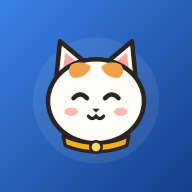
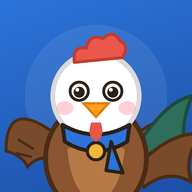
PS1.3.36.1

diff --git a/routine/scripts/core.js b/routine/scripts/core.js
@@ -93,7 +93,7 @@ function treeLettersSVG37(stage,stems,sx,order,interactive){
    KAIZEN MỖI NGÀY · TQ02
    Một file HTML, dữ liệu lưu trong trình duyệt của từng máy.
    ========================================================= */
-var APP_VER = 'M.Claude.3.3.41';
+var APP_VER = 'M.Claude.3.4.0';
 var APP_NAME = 'Shin routine';
 /* PS1.3.25: Shin Routine nằm trong Proskills (thư mục routine/), lưu theo quy ước ps.* để đi cùng bản sao lưu chung */
 var KEY = 'ps.mod.routine', KEY_DEMO = 'ps.demo.routine', KEY_MODE = 'ps.demo.routine.mode';
@@ -671,82 +671,13 @@ var GCOL={1:'#2A74DB',2:'#22A05E',3:'#0F9F98',4:'#E0567F',5:'#7B5BD0',6:'#D9731A
 function hico(id,size){ var g=HMAP[id].g; return '<span class="hi g'+g+(size?' hi--'+size:'')+'">'+glyph(id,GCOL[g])+'</span>'; }
 function gico(g,size){ return '<span class="hi g'+g+(size?' hi--'+size:'')+'">'+glyph('g'+g,GCOL[g])+'</span>'; }
 function uico(n,g){ return '<span class="hi g'+(g||1)+'" style="color:#fff">'+ic(n)+'</span>'; }
-/* ---- Shin: mèo huấn luyện viên · hi · cheer · think · wow · worry · sleep ---- */
+/* ---- Shin: gà lớn dần cùng học viên (PS1.3.36 · M.Claude.3.4.0) ----
+   Hình vẽ ở ../core/shin.js (PSShin, dùng chung với trang chủ Proskills). Giai đoạn theo số ngày đã ghi nhận
+   (Trứng → Gà con 3 ngày → Gà choai 14 ngày → Gà lớn 30 ngày), trang phục chọn ở Sổ tay › Cài đặt › Tủ đồ của Shin.
+   Biểu cảm: hi · still · cheer · think · curious · wow · worry · sleep · yawn · moved · comfort · proud · focused · determined · waiting · pout · wink · welcome. */
 function shin(mood){
-  mood = mood || 'hi';
-  var K='#3A2A1C', O='#F29A3C', W='#FFF9F0', S='#2A74DB';
-  var eyes, mouth='<path d="M54 70q3 3.5 6 0q3 3.5 6 0" stroke="'+K+'" stroke-width="2.6" fill="none" stroke-linecap="round"/>';
-  var extra='', armL='<ellipse cx="44" cy="100" rx="8" ry="6" fill="'+W+'" stroke="'+K+'" stroke-width="2.4"/>', armR='<ellipse cx="76" cy="100" rx="8" ry="6" fill="'+W+'" stroke="'+K+'" stroke-width="2.4"/>';
-  if(mood==='cheer'){
-    eyes='<path d="M42 58q6-7 12 0M66 58q6-7 12 0" stroke="'+K+'" stroke-width="3.4" fill="none" stroke-linecap="round"/>';
-    mouth='<path d="M53 68q7 9 14 0z" fill="#E86A5C" stroke="'+K+'" stroke-width="2.4" stroke-linejoin="round"/>';
-    armL='<ellipse cx="30" cy="70" rx="7.5" ry="9" fill="'+W+'" stroke="'+K+'" stroke-width="2.4" transform="rotate(-25 30 70)"/>';
-    armR='<ellipse cx="90" cy="70" rx="7.5" ry="9" fill="'+W+'" stroke="'+K+'" stroke-width="2.4" transform="rotate(25 90 70)"/>';
-    extra='<g fill="#F4B63B"><path d="M18 40l2 5 5 2-5 2-2 5-2-5-5-2 5-2z"/><path d="M100 34l1.6 4 4 1.6-4 1.6-1.6 4-1.6-4-4-1.6 4-1.6z"/></g>';
-  } else if(mood==='think'){
-    eyes='<g class="blink"><circle cx="49" cy="56" r="4.6" fill="'+K+'"/><circle cx="71" cy="56" r="4.6" fill="'+K+'"/><circle cx="50.5" cy="54" r="1.5" fill="#fff"/><circle cx="72.5" cy="54" r="1.5" fill="#fff"/></g>';
-    mouth='<path d="M55 71h10" stroke="'+K+'" stroke-width="2.6" stroke-linecap="round"/>';
-    armR='<ellipse cx="74" cy="80" rx="7.5" ry="6.5" fill="'+W+'" stroke="'+K+'" stroke-width="2.4"/>';
-    extra='<text x="94" y="36" style="'+FONT_SVG+';font-weight:800" font-size="22" fill="'+S+'">?</text>';
-  } else if(mood==='wow'){
-    eyes='<g class="blink"><circle cx="48" cy="58" r="7" fill="'+K+'"/><circle cx="72" cy="58" r="7" fill="'+K+'"/><circle cx="50.5" cy="55" r="2.6" fill="#fff"/><circle cx="74.5" cy="55" r="2.6" fill="#fff"/></g>';
-    mouth='<ellipse cx="60" cy="72" rx="4.5" ry="5.5" fill="#E86A5C" stroke="'+K+'" stroke-width="2.2"/>';
-    extra='<g stroke="#F4B63B" stroke-width="3" stroke-linecap="round"><path d="M18 46l-7-3M20 56h-8M100 46l7-3M100 56h8"/></g>';
-  } else if(mood==='worry'){
-    eyes='<g class="blink"><circle cx="48" cy="59" r="3.8" fill="'+K+'"/><circle cx="72" cy="59" r="3.8" fill="'+K+'"/></g><path d="M41 49l12 3M79 49l-12 3" stroke="'+K+'" stroke-width="2.4" stroke-linecap="round"/>';
-    mouth='<path d="M54 73q6-5 12 0" stroke="'+K+'" stroke-width="2.6" fill="none" stroke-linecap="round"/>';
-    extra='<path d="M88 40q4 7 0 10q-4-3 0-10z" fill="#8FD0E8" stroke="#4A9BBE" stroke-width="1.4"/>';
-  } else if(mood==='sleep'){
-    eyes='<path d="M42 58q6 5 12 0M66 58q6 5 12 0" stroke="'+K+'" stroke-width="3" fill="none" stroke-linecap="round"/>';
-    mouth='<path d="M56 71q4 2 8 0" stroke="'+K+'" stroke-width="2.4" fill="none" stroke-linecap="round"/>';
-    extra='<text x="88" y="34" style="'+FONT_SVG+';font-weight:800" font-size="15" fill="'+S+'">z</text><text x="98" y="24" style="'+FONT_SVG+';font-weight:800" font-size="11" fill="'+S+'">z</text>';
-  } else if(mood==='moved'){
-    eyes='<g class="blink"><ellipse cx="48" cy="58" rx="6" ry="6.6" fill="'+K+'"/><ellipse cx="72" cy="58" rx="6" ry="6.6" fill="'+K+'"/><circle cx="50.4" cy="55.6" r="2.4" fill="#fff"/><circle cx="74.4" cy="55.6" r="2.4" fill="#fff"/><circle cx="46" cy="60.6" r="1.2" fill="#fff"/><circle cx="70" cy="60.6" r="1.2" fill="#fff"/></g><path d="M43 66q-2 3.4 0 5.4q2-2 0-5.4z" fill="#8FD0E8"/>';
-    mouth='<path d="M54 70q6 6 12 0" stroke="'+K+'" stroke-width="2.6" fill="none" stroke-linecap="round"/>';
-    armL='<ellipse cx="50" cy="97" rx="8" ry="6" fill="'+W+'" stroke="'+K+'" stroke-width="2.4"/>';
-    armR='<ellipse cx="70" cy="97" rx="8" ry="6" fill="'+W+'" stroke="'+K+'" stroke-width="2.4"/>';
-    extra='<path d="M100 40l-7-7c-4-5 3-10 7-4 4-6 11-1 7 4z" fill="#E0567F"/>';
-  } else if(mood==='comfort'){
-    eyes='<g class="blink"><circle cx="48" cy="58" r="4.4" fill="'+K+'"/><circle cx="72" cy="58" r="4.4" fill="'+K+'"/><circle cx="49.6" cy="56.4" r="1.5" fill="#fff"/><circle cx="73.6" cy="56.4" r="1.5" fill="#fff"/></g><path d="M41 52l12-4M79 52l-12-4" stroke="'+K+'" stroke-width="2.4" stroke-linecap="round"/>';
-    mouth='<path d="M55 71q5 3 10 0" stroke="'+K+'" stroke-width="2.6" fill="none" stroke-linecap="round"/>';
-    armR='<ellipse cx="90" cy="86" rx="8" ry="6.4" fill="'+W+'" stroke="'+K+'" stroke-width="2.4" transform="rotate(-20 90 86)"/>';
-    extra='<path d="M100 78l-6-6c-3-4 2-8 6-3 4-5 9-1 6 3z" fill="#F29A9A" stroke="#D96C6C" stroke-width="1"/>';
-  } else if(mood==='proud'){
-    eyes='<g class="blink"><circle cx="48" cy="57" r="5" fill="'+K+'"/><circle cx="72" cy="57" r="5" fill="'+K+'"/><path d="M50 53.6l.9 1.9 2 .3-1.5 1.4.4 2-1.8-1-1.8 1 .4-2-1.5-1.4 2-.3z" fill="#fff"/><path d="M74 53.6l.9 1.9 2 .3-1.5 1.4.4 2-1.8-1-1.8 1 .4-2-1.5-1.4 2-.3z" fill="#fff"/></g><path d="M42 49q6-4 12-1M66 48q6-3 12 1" stroke="'+K+'" stroke-width="2.4" fill="none" stroke-linecap="round"/>';
-    mouth='<path d="M52 69q9 8 17-2" stroke="'+K+'" stroke-width="2.6" fill="none" stroke-linecap="round"/>';
-    armL='<ellipse cx="34" cy="98" rx="8" ry="6" fill="'+W+'" stroke="'+K+'" stroke-width="2.4"/>';
-    armR='<ellipse cx="86" cy="98" rx="8" ry="6" fill="'+W+'" stroke="'+K+'" stroke-width="2.4"/>';
-    extra='<path d="M54 92l6 8 6-8" stroke="#C8372D" stroke-width="3" fill="none"/><circle cx="60" cy="105" r="5.2" fill="#F4B63B" stroke="'+K+'" stroke-width="1.8"/><g fill="#F4B63B"><path d="M18 40l2 5 5 2-5 2-2 5-2-5-5-2 5-2z"/><path d="M101 36l1.6 4 4 1.6-4 1.6-1.6 4-1.6-4-4-1.6 4-1.6z"/></g>';
-  } else if(mood==='yawn'){
-    eyes='<path d="M42 55l10 4-10 4M78 55l-10 4 10 4" stroke="'+K+'" stroke-width="3" fill="none" stroke-linecap="round" stroke-linejoin="round"/>';
-    mouth='<ellipse cx="60" cy="73" rx="6.5" ry="8.4" fill="#E86A5C" stroke="'+K+'" stroke-width="2.4"/>';
-    armR='<ellipse cx="80" cy="78" rx="7.5" ry="6.6" fill="'+W+'" stroke="'+K+'" stroke-width="2.4"/>';
-    extra='<path d="M40 66q-2 3.4 0 5.4q2-2 0-5.4z" fill="#8FD0E8"/><text x="92" y="34" style="'+FONT_SVG+';font-weight:800" font-size="16" fill="'+S+'">z</text>';
-  } else if(mood==='curious'){
-    eyes='<g class="blink"><circle cx="48" cy="57" r="5.6" fill="'+K+'"/><circle cx="72" cy="57" r="5.6" fill="'+K+'"/><circle cx="50.4" cy="54.8" r="1.9" fill="#fff"/><circle cx="74.4" cy="54.8" r="1.9" fill="#fff"/></g><path d="M41 47q6-5 12-1M66 50h12" stroke="'+K+'" stroke-width="2.4" fill="none" stroke-linecap="round"/>';
-    mouth='<path d="M57 71q3-3.4 6 0q-3 3.4-6 0z" fill="#E86A5C" stroke="'+K+'" stroke-width="1.6" stroke-linejoin="round"/>';
-    armR='<ellipse cx="86" cy="84" rx="7.5" ry="6.4" fill="'+W+'" stroke="'+K+'" stroke-width="2.4"/>';
-    extra='<circle cx="101" cy="70" r="9" fill="#DDF1FA" fill-opacity=".75" stroke="#5A4A3A" stroke-width="3"/><path d="M94.4 77l-8 8.4" stroke="#5A4A3A" stroke-width="4" stroke-linecap="round"/>';
-  } else {
-    eyes='<g class="blink"><circle cx="48" cy="58" r="5" fill="'+K+'"/><circle cx="72" cy="58" r="5" fill="'+K+'"/><circle cx="49.8" cy="56" r="1.7" fill="#fff"/><circle cx="73.8" cy="56" r="1.7" fill="#fff"/></g>';
-    if(mood!=='still') armR='<g class="wave"><ellipse cx="92" cy="66" rx="7.5" ry="9" fill="'+W+'" stroke="'+K+'" stroke-width="2.4" transform="rotate(20 92 66)"/><path d="M89 61v6M93 60v6" stroke="'+K+'" stroke-width="1.4" stroke-linecap="round"/></g>';
-  }
-  return '<svg viewBox="0 0 120 124" aria-hidden="true"><g'+(mood==='still'?'':' class="bob"')+'>'+
-    '<path class="tail" d="M86 108q22 2 20-20q-1-8-7-6" stroke="'+K+'" stroke-width="2.6" fill="'+O+'" stroke-linejoin="round"/>'+
-    '<ellipse cx="60" cy="102" rx="27" ry="18" fill="'+W+'" stroke="'+K+'" stroke-width="2.6"/>'+
-    '<path d="M44 92q16 8 32 0" stroke="none" fill="'+O+'" opacity=".55"/>'+
-    '<path d="M28 36L26 10l20 14z" fill="'+O+'" stroke="'+K+'" stroke-width="2.6" stroke-linejoin="round"/>'+
-    '<path d="M92 36L94 10 74 24z" fill="'+W+'" stroke="'+K+'" stroke-width="2.6" stroke-linejoin="round"/>'+
-    '<path d="M31 30l-1-13 9 7z" fill="#F7B9B0"/><path d="M89 30l1-13-9 7z" fill="#F7B9B0"/>'+
-    '<ellipse cx="60" cy="58" rx="34" ry="30" fill="'+W+'" stroke="'+K+'" stroke-width="2.6"/>'+
-    '<path d="M32 46q6-18 24-18q-6 8-8 20q-10-4-16-2z" fill="'+O+'"/>'+
-    '<path d="M70 30q10 2 16 10q-6 0-10 4z" fill="'+O+'" opacity=".8"/>'+
-    '<ellipse cx="40" cy="68" rx="5.5" ry="3.4" fill="#F7B9B0" opacity=".85"/><ellipse cx="80" cy="68" rx="5.5" ry="3.4" fill="#F7B9B0" opacity=".85"/>'+
-    eyes+'<path d="M57.5 64.5h5l-2.5 3z" fill="#E86A5C" stroke="'+K+'" stroke-width="1.4" stroke-linejoin="round"/>'+mouth+
-    '<path d="M34 84q26 10 52 0l-2 7q-24 8-48 0z" fill="'+S+'" stroke="'+K+'" stroke-width="2.2" stroke-linejoin="round"/>'+
-    '<path d="M70 90l8 12-9-2z" fill="'+S+'" stroke="'+K+'" stroke-width="2" stroke-linejoin="round"/>'+
-    '<circle cx="60" cy="92" r="4" fill="#F4B63B" stroke="'+K+'" stroke-width="1.6"/>'+
-    armL+armR+extra+'</g></svg>';
+  if(window.PSShin) return PSShin.now(mood||'hi');
+  return '<svg viewBox="0 0 120 124" aria-hidden="true"></svg>';
 }
 
 /* ---- Senpai: 6 anh chị khóa trước (hư cấu), mỗi người một ngành · 0 Minh nhà máy · 1 Hạnh chế biến thực phẩm · 2 Vy điều dưỡng · 3 Tuấn xây dựng · 4 Linh nhà hàng khách sạn · 5 Phong gara ô tô ---- */

diff --git a/routine/proskills.js b/routine/proskills.js
@@ -16,6 +16,8 @@
    - PS1.3.26: chỉ dùng sao lưu chung (backup → PS.backup, psRestore → PS.restorePick).
      Khóa gợi ý thẻ: routine/?add=<mã thẻ>&from=<id khóa> → mở thẻ (đang có) hoặc màn đặt công thức; thanh "Quay lại <khóa>".
      extra báo thêm mine {mã: active|pause|keep|master|stored} và lib {mã: tên}.
+   - PS1.3.36: Shin là gà lớn dần (../core/shin.js). Tủ đồ của Shin ở Sổ tay › Cài đặt › nhóm Proskills
+     (PS.prefs().shinFit; demo chỉ thử tạm). Qua mốc ngày ghi nhận thì hiện màn "Shin đã lớn".
    ========================================================= */
 (function (W, D) {
   'use strict';
@@ -72,10 +74,10 @@
     PS.setProfile({ teacher: t ? t[1] : '' });
   });
 
-  /* ---------- màn chào: chỉ lần đầu ---------- */
+  /* ---------- màn chào: PS1.3.34 bỏ hẳn (kể cả lần đầu), vào thẳng app cho nhanh ---------- */
   var baseSplash = W.splashBoot;
   W.splashBoot = function () {
-    if (!lsGet(FIRST_KEY)) { FIRST = true; lsSet(FIRST_KEY, today()); return baseSplash.apply(this, arguments); }
+    if (!lsGet(FIRST_KEY)) { FIRST = true; lsSet(FIRST_KEY, today()); }
     D.documentElement.classList.remove('growth-starting');
     var meta = D.querySelector('meta[name="theme-color"]'); if (meta) meta.content = '#F9F9FF';
   };
@@ -85,8 +87,48 @@
   W.nbSet = function () {
     var h = baseNbSet.apply(this, arguments);
     var row = W.setRow('psHome', 'phone', 2, 'Trang chủ Proskills', '', '', '<a class="btn btn--soft btn--sm" href="../index.html" data-ps-home>Về trang chủ</a>');
-    return W.setGroup('Proskills', [row]) + h;
+    return W.setGroup('Proskills', [row, fitRow()]) + h;
   };
+
+  /* ---------- PS1.3.36 · Tủ đồ của Shin (gà lớn dần, trang phục mở theo giai đoạn) ---------- */
+  function fitRow() {
+    if (!W.PSShin) return '';
+    var Z = W.PSShin, l = Z.look(), F = {}; Z.FITS.forEach(function (f) { F[f[0]] = f; });
+    var nx = l.stg < 3 ? Z.STAGE_DAYS[l.stg + 1] : 0, pct = nx ? Math.min(100, Math.round(l.days / nx * 100)) : 100;
+    var body = '<div class="psfit__now">' + Z.svg('proud', { stg: l.stg, fit: l.fit, days: l.days }) +
+      '<div><b>Shin đang là ' + Z.STAGE_NAME[l.stg] + '</b><small>' + (W.DEMO ? 'Bản demo: Shin đã lớn.' : 'Bạn đã ghi nhận ' + l.days + ' ngày.') +
+      (nx && !W.DEMO ? ' Thêm ' + (nx - l.days) + ' ngày nữa, Shin thành ' + Z.STAGE_NAME[l.stg + 1] + '.' : (l.stg === 3 ? ' Shin đã trưởng thành cùng bạn!' : '')) + '</small>' +
+      '<span class="psfit__bar"><i style="width:' + pct + '%"></i></span></div></div>' +
+      '<div class="psfit__g">' + Z.FITS.map(function (f) {
+        var lock = f[2] > l.stg, on = f[0] === l.fit;
+        return '<button type="button" class="psfit__b' + (on ? ' on' : '') + (lock ? ' lock' : '') + '" data-ps-fit="' + f[0] + '"' + (lock ? ' aria-disabled="true"' : '') + ' aria-pressed="' + on + '">' +
+          Z.svg('still', { stg: Math.max(l.stg, f[2]), fit: f[0], days: l.days }) + '<b>' + PS.esc(f[1]) + '</b><small>' + (lock ? 'Mở khi Shin là ' + Z.STAGE_NAME[f[2]] : PS.esc(f[3])) + '</small></button>';
+      }).join('') + '</div><p class="psfit__ft">Shin lớn dần theo số ngày bạn ghi nhận: Gà con ' + Z.STAGE_DAYS[1] + ' ngày · Gà choai ' + Z.STAGE_DAYS[2] + ' ngày · Gà lớn ' + Z.STAGE_DAYS[3] + ' ngày.</p>';
+    return W.setRow('psFit', 'smile', 4, 'Tủ đồ của Shin', PS.esc(F[l.fit][1]) + ' · ' + Z.STAGE_NAME[l.stg], body);
+  }
+  D.addEventListener('click', function (e) {
+    var b = e.target && e.target.closest ? e.target.closest('[data-ps-fit]') : null; if (!b || !W.PSShin) return;
+    e.preventDefault(); e.stopPropagation();
+    var k = b.getAttribute('data-ps-fit'), l = W.PSShin.look(), f = null;
+    W.PSShin.FITS.forEach(function (x) { if (x[0] === k) f = x; });
+    if (!f) return;
+    if (f[2] > l.stg) { W.toast('Trang phục này mở khi Shin thành ' + W.PSShin.STAGE_NAME[f[2]] + '. Ghi nhận đều mỗi ngày nhé!'); return; }
+    if (W.DEMO) W.PS_SHIN_FIT_TMP = k; else PS.setPref('shinFit', k);
+    try { W.refreshAll(); } catch (er) {}
+    W.toast('Shin đã thay: ' + f[1] + '.');
+  }, true);
+  /* Shin lớn lên: mừng một lần khi vừa qua mốc */
+  function grewUp(from, to, days) {
+    var Z = W.PSShin, news = Z.FITS.filter(function (f) { return f[2] === to; }).map(function (f) { return f[1]; });
+    whenFree(function () {
+      if (W.OV || typeof W.openMini !== 'function') return;
+      W.openMini('<div class="center psgrow"><div class="psgrow__art">' + Z.svg('cheer', { stg: to, fit: Z.look().fit, days: days }) + '</div>' +
+        '<small>SHIN ĐÃ LỚN</small><h2>' + (to === 1 ? 'Shin nở rồi! Chào Gà con!' : 'Shin thành ' + Z.STAGE_NAME[to] + '!') + '</h2>' +
+        '<p class="muted">Bạn đã ghi nhận <b>' + days + ' ngày</b>. Shin lớn lên nhờ từng ngày bạn giữ nhịp.</p>' +
+        (news.length ? '<p class="psgrow__new">Tủ đồ có thêm: <b>' + news.map(PS.esc).join(', ') + '</b></p>' : '') +
+        '<button class="btn btn--wide" data-act="close">Tuyệt quá!</button></div>');
+    }, 0);
+  }
   D.addEventListener('click', function (e) {
     var t = e.target && e.target.closest ? e.target : null; if (!t) return;
     if (t.closest('[data-ps-home]')) { try { W.save(true); } catch (er) {} }
@@ -129,7 +171,10 @@
     (W.HABITS || []).forEach(function (h) { lib[h.id] = W.sname(h.id); });
     var x = { day: t, rec: !!rec[t], ci: !!(S.ci && S.ci[t]), ciTime: S.ciTime || '21:00', need: now.length > 0 || all.length === 0, cards: cards, active: now.length,
       fire: W.streak(), recDays: Object.keys(rec).length, mastered: mastered, habits: all.length, mine: mine, lib: lib };
+    var prev = PS.summary(ID), pd = prev && prev.extra ? +prev.extra.recDays || 0 : -1;
     PS.report(ID, { xp: 0, ins: 0, done: x.recDays, total: 0, days: minutes(), extra: x, ver: W.APP_VER });
+    /* PS1.3.36: Shin lớn lên khi số ngày ghi nhận qua mốc (không mừng lần báo đầu tiên trên máy) */
+    if (W.PSShin && pd >= 0 && W.PSShin.stageOf(x.recDays) > W.PSShin.stageOf(pd)) { grewUp(W.PSShin.stageOf(pd), W.PSShin.stageOf(x.recDays), x.recDays); try { W.render(); } catch (er) {} }
     door(x);
   }
   var baseSave = W.save;
@@ -179,7 +224,19 @@
     '.psgo__x{flex:none;width:36px;height:36px;border:0;border-radius:50%;background:rgba(255,255,255,.14);color:#fff;font-size:20px;line-height:1;cursor:pointer}' +
     '@keyframes psgoIn{from{transform:translateY(16px);opacity:0}to{transform:none;opacity:1}}' +
     '@media (prefers-reduced-motion:reduce){.psgo{animation:none}}' +
-    '@media (min-width:900px){.psgo{bottom:24px}}';
+    '@media (min-width:900px){.psgo{bottom:24px}}' +
+    /* PS1.3.36 · Tủ đồ của Shin, màn mừng Shin lớn */
+    '.psfit__now{display:flex;align-items:center;gap:12px;background:#F4F6FC;border-radius:18px;padding:8px 12px 8px 4px}.psfit__now svg{width:78px;height:80px;flex:none}' +
+    '.psfit__now b{display:block;font-size:15px}.psfit__now small{display:block;font-size:12.5px;color:#5D6478;line-height:1.4;margin-top:2px}' +
+    '.psfit__bar{display:block;height:7px;border-radius:9px;background:#DFE5F2;margin-top:8px;overflow:hidden}.psfit__bar i{display:block;height:100%;border-radius:9px;background:#F2B21B}' +
+    '.psfit__g{display:grid;grid-template-columns:repeat(2,1fr);gap:8px;margin-top:10px}' +
+    '.psfit__b{display:flex;flex-direction:column;align-items:center;gap:1px;border:1.5px solid #E2E6F0;background:#fff;border-radius:16px;padding:6px 6px 9px;cursor:pointer;font:inherit;color:inherit;-webkit-tap-highlight-color:transparent}' +
+    '.psfit__b svg{width:70px;height:72px}.psfit__b b{font-size:13.5px}.psfit__b small{font-size:11.5px;color:#6B7183;line-height:1.3;text-align:center}' +
+    '.psfit__b.on{border-color:#2265C5;box-shadow:0 0 0 2px #2265C5 inset;background:#F3F7FF}.psfit__b.lock{opacity:.55}.psfit__b.lock svg{filter:grayscale(1)}' +
+    '.psfit__b:active{transform:scale(.97)}.psfit__ft{font-size:12px;color:#6B7183;margin:10px 2px 2px;line-height:1.45}' +
+    '.psgrow__art{width:150px;margin:0 auto}.psgrow__art svg{width:100%;height:auto}.psgrow small{display:block;font-size:12px;font-weight:700;letter-spacing:.08em;color:#2265C5;margin-top:4px}' +
+    '.psgrow h2{margin:4px 0 6px}.psgrow__new{background:#FFF6DA;border-radius:14px;padding:8px 12px;font-size:14px;margin:10px 0 14px}' +
+    '@media (min-width:600px){.psfit__g{grid-template-columns:repeat(4,1fr)}}';
   D.head.appendChild(css);
 
   /* ---------- khóa gợi ý thẻ: mở thẻ, đặt công thức, rồi mời quay lại khóa ---------- */

diff --git a/routine/habit-game.html b/routine/habit-game.html
@@ -2,16 +2,17 @@
 <html lang="vi">
 <head>
   <meta charset="UTF-8" />
-  <meta name="viewport" content="width=device-width, initial-scale=1.0" />
+  <meta name="viewport" content="width=device-width, initial-scale=1, maximum-scale=1, user-scalable=no, viewport-fit=cover" />
+  <style>/* PS1.3.34: dùng như app thật */html{overscroll-behavior:none;touch-action:pan-x pan-y;overflow-x:hidden}body{overscroll-behavior:none;-webkit-user-select:none;user-select:none;-webkit-touch-callout:none;-webkit-tap-highlight-color:transparent}input,textarea{-webkit-user-select:text;user-select:text}</style>
   <title>Tung thói quen · Shin routine</title>
 
   <!-- Tailwind CSS -->
-  <link rel="stylesheet" href="assets/game/habit-game.css?v=M.Claude.3.3.41">
+  <link rel="stylesheet" href="assets/game/habit-game.css?v=M.Claude.3.4.0">
 
   <!-- Thư viện vật lý 2D Matter.js -->
-  <script src="assets/game/matter-0.19.0.min.js?v=M.Claude.3.3.41"></script>
+  <script src="assets/game/matter-0.19.0.min.js?v=M.Claude.3.4.0"></script>
 
-  <link rel="stylesheet" href="styles/fonts39.css?v=M.Claude.3.3.41">
+  <link rel="stylesheet" href="styles/fonts39.css?v=M.Claude.3.4.0">
   <style>
 @font-face{font-family:'Roboto Flex';src:url('assets/fonts/roboto-flex-vietnamese.woff2') format('woff2');font-weight:100 1000;font-display:swap;unicode-range:U+0102-0103,U+0110-0111,U+0128-0129,U+0168-0169,U+01A0-01A1,U+01AF-01B0,U+0300-0301,U+0303-0304,U+0308-0309,U+0323,U+0329,U+1EA0-1EF9,U+20AB;}
 @font-face{font-family:'Roboto Flex';src:url('assets/fonts/roboto-flex-latin.woff2') format('woff2');font-weight:100 1000;font-display:swap;unicode-range:U+0000-00FF,U+0131,U+0152-0153,U+02BB-02BC,U+02C6,U+02DA,U+02DC,U+0304,U+0308,U+0329,U+2000-206F,U+20AC,U+2122,U+2191,U+2193,U+2212,U+2215,U+FEFF,U+FFFD;}
@@ -119,8 +120,8 @@
   </style>
 <style>html,body{margin:0;overscroll-behavior:contain}body{padding:12px!important;background:#F9F9FF}#court-wrapper{height:clamp(480px,70dvh,570px);border-radius:28px}#hud-banner{margin-bottom:10px}#hud-title,#hud-desc{white-space:normal;line-height:1.4}#hud-desc{font-size:12px}#selected-habits-list{max-height:none}.result14{padding:13px;border:1px solid #E0E4ED;border-radius:20px;background:#F9FAFF}.result14 b{font-size:16px;line-height:1.35}.result14 p{font-size:13px;line-height:1.5;margin:5px 0 8px;color:#525E70}.result14-actions{display:flex;flex-wrap:wrap;gap:6px}.result14 button{border:0;border-radius:22px;padding:10px 12px;min-height:44px;font-size:13px;font-weight:600;background:#E7EEFB;color:#204B88}.result14 button[data-action=choose]{background:#2265C5;color:white}.result14 button[data-action=return]{background:transparent;color:#687182}.result14-status{display:block;font-size:12px;color:#52714F;margin-bottom:7px}#empty-habits-msg{font-size:13px;line-height:1.5}#selected-count-badge{white-space:nowrap}#sound-toggle{min-width:44px;min-height:44px}#reset-btn,#toss-btn{min-height:44px}#court-wrapper{touch-action:none}#selected-habits-list{display:grid;gap:8px}button:focus-visible{outline:3px solid #2265C5;outline-offset:3px}@media(prefers-reduced-motion:reduce){.tt-particle{display:none}.net-swish-anim{animation:none}}</style>
 <style>.game14-small-title{font-size:13px;line-height:1.4}#game14-results-jump{position:fixed;right:14px;bottom:14px;z-index:40;background:#2265C5;color:white;border:1px solid #fff6;border-radius:24px;min-height:44px;padding:10px 16px;font-size:14px;font-weight:600;box-shadow:0 3px 16px #183D702B}#game14-results-jump[hidden]{display:none}</style>
-<link rel="stylesheet" href="design-system.css?v=M.Claude.3.3.41">
-<link rel="stylesheet" href="design-game.css?v=M.Claude.3.3.41">
+<link rel="stylesheet" href="design-system.css?v=M.Claude.3.4.0">
+<link rel="stylesheet" href="design-game.css?v=M.Claude.3.4.0">
 </head>
 <body id="shinGame19" class="min-h-screen flex flex-col items-center py-5 px-3 sm:py-7 sm:px-4">
 
@@ -243,7 +244,7 @@
 
   </main>
 
-  <script src="assets/game/habit-game.js?v=M.Claude.3.3.41"></script>
+  <script src="assets/game/habit-game.js?v=M.Claude.3.4.0"></script>
 </body>
 </html>
 <script>document.addEventListener('DOMContentLoaded',function(){var main=document.querySelector('main'),head=document.querySelector('body>header');if(main&&head)main.appendChild(head);});</script><style>html,body,button,input,.font-mono-tag{font-family:'Be Vietnam Pro','Roboto Flex',Arial,sans-serif}h1,h2,h3,.game14-small-title{font-family:'Nunito','Be Vietnam Pro',sans-serif;font-weight:800}body{padding:0 0 16px!important}main{display:flex;flex-direction:column}main>header{order:1;margin-top:12px}#court-wrapper{order:0;height:calc(100vh - 48px);height:calc(100dvh - 48px);border-radius:0}#hud-banner{order:2}main>section{order:3}main>header,#hud-banner,main>section{width:calc(100% - 16px)}.game14-small-title{font-size:13px}#court-wrapper .tt-widget{font-family:'Roboto Flex',Arial,sans-serif}</style>

diff --git a/routine/index.html b/routine/index.html
@@ -1,11 +1,10 @@
 <!doctype html>
-<html lang="vi" class="growth-starting">
+<html lang="vi">
 <head>
 <meta charset="utf-8">
-<meta name="viewport" content="width=device-width, initial-scale=1, viewport-fit=cover">
-<meta name="theme-color" content="#2265C5">
-<style>html.growth-starting,html.growth-starting body{background:#2265C5}html.growth-starting #app{visibility:hidden}</style>
-<script>setTimeout(function(){document.documentElement.classList.remove("growth-starting");},6000);</script>
+<meta name="viewport" content="width=device-width, initial-scale=1, maximum-scale=1, user-scalable=no, viewport-fit=cover">
+<meta name="theme-color" content="#F9F9FF">
+<!-- PS1.3.34: bỏ màn chào (nền xanh) của Shin Routine, vào thẳng app -->
 <meta name="mobile-web-app-capable" content="yes">
 <meta name="apple-mobile-web-app-capable" content="yes">
 <meta name="apple-mobile-web-app-title" content="Proskills">
@@ -15,36 +14,37 @@
 <link rel="manifest" href="../manifest.webmanifest">
 <link rel="icon" href="icon-192.png">
 <link rel="apple-touch-icon" href="../icons/apple-touch-icon.png">
-<link rel="stylesheet" href="../core/core.css?v=PS1.3.33">
-<script src="../config.js?v=PS1.3.33"></script>
-<script src="../core/core.js?v=PS1.3.33"></script>
-<script src="../core/pwa.js?v=PS1.3.33"></script>
+<link rel="stylesheet" href="../core/core.css?v=PS1.3.36">
+<script src="../config.js?v=PS1.3.36"></script>
+<script src="../core/core.js?v=PS1.3.36"></script>
+<script src="../core/pwa.js?v=PS1.3.36"></script>
+<script src="../core/shin.js?v=PS1.3.36"></script>
 <script>if (window.PS) { window.PS_DEMO = PS.demoParam().on; if (!window.PS_DEMO && !PS.guard('routine')) window.PS_STOP = 1; }</script>
-<link rel="stylesheet" href="styles/fonts39.css?v=M.Claude.3.3.41">
-<link rel="stylesheet" href="styles/base.css?v=M.Claude.3.3.41">
+<link rel="stylesheet" href="styles/fonts39.css?v=M.Claude.3.4.0">
+<link rel="stylesheet" href="styles/base.css?v=M.Claude.3.4.0">
 
-<link rel="stylesheet" href="styles/components.css?v=M.Claude.3.3.41">
+<link rel="stylesheet" href="styles/components.css?v=M.Claude.3.4.0">
 
-<link rel="stylesheet" href="styles/habits.css?v=M.Claude.3.3.41">
+<link rel="stylesheet" href="styles/habits.css?v=M.Claude.3.4.0">
 
-<script src="scripts/core.js?v=M.Claude.3.3.41" defer></script>
+<script src="scripts/core.js?v=M.Claude.3.4.0" defer></script>
 
-<script src="scripts/interface.js?v=M.Claude.3.3.41" defer></script>
+<script src="scripts/interface.js?v=M.Claude.3.4.0" defer></script>
 
-<script src="scripts/habits.js?v=M.Claude.3.3.41" defer></script>
+<script src="scripts/habits.js?v=M.Claude.3.4.0" defer></script>
 
-<script src="scripts/interaction.js?v=M.Claude.3.3.41" defer></script>
+<script src="scripts/interaction.js?v=M.Claude.3.4.0" defer></script>
 
-<script src="scripts/extensions.js?v=M.Claude.3.3.41" defer></script>
+<script src="scripts/extensions.js?v=M.Claude.3.4.0" defer></script>
 
-<link rel="stylesheet" href="styles/extensions.css?v=M.Claude.3.3.41">
+<link rel="stylesheet" href="styles/extensions.css?v=M.Claude.3.4.0">
 
-<link rel="stylesheet" href="design-system.css?v=M.Claude.3.3.41">
-<script src="design-system.js?v=M.Claude.3.3.41" defer></script>
-<script src="scripts/how-visual.js?v=M.Claude.3.3.41" defer></script>
-<script src="scripts/rules-v2.js?v=M.Claude.3.3.41" defer></script>
-<script src="proskills.js?v=PS1.3.33" defer></script>
-<script src="boot.js?v=M.Claude.3.3.41" defer></script>
+<link rel="stylesheet" href="design-system.css?v=M.Claude.3.4.0">
+<script src="design-system.js?v=M.Claude.3.4.0" defer></script>
+<script src="scripts/how-visual.js?v=M.Claude.3.4.0" defer></script>
+<script src="scripts/rules-v2.js?v=M.Claude.3.4.0" defer></script>
+<script src="proskills.js?v=PS1.3.36" defer></script>
+<script src="boot.js?v=M.Claude.3.4.0" defer></script>
 </head>
 <body id="shinTypographyRoot" class="m3-review m3-release">
 <div id="app"></div>

diff --git a/routine/scripts/interaction.js b/routine/scripts/interaction.js
@@ -282,9 +282,9 @@ drawHow=function(){eveningDrawHow();if(EVENING_LIBRARY_ORIGIN&&EVENING_LIBRARY_O
 function eveningZoomOpen(button,how){var id=button.dataset.v,rect=button.getBoundingClientRect();EVENING_LIBRARY_ORIGIN={id:id,how:how,pick:PICK,rect:{left:rect.left,top:rect.top,width:rect.width,height:rect.height}};HABIT_RETURN33=null;FLOW_HOW_RETURN=null;FLOW_NOTE_RETURN=null;if(how)openHow(id);else{closeOv(true);openCard(id,false);}var sheet=OV&&$('.sheet',OV);if(sheet&&!reduceMotion()){var to=sheet.getBoundingClientRect(),from=EVENING_LIBRARY_ORIGIN.rect;sheet.animate([{opacity:.25,transform:'translate('+(from.left+from.width/2-to.left-to.width/2)+'px,'+(from.top+from.height/2-to.top-to.height/2)+'px) scale(.32)'},{opacity:1,transform:'none'}],{duration:420,easing:'cubic-bezier(.2,.8,.2,1)'});}}
 function eveningLibraryBack(){var origin=EVENING_LIBRARY_ORIGIN;if(!origin)return;EVENING_LIBRARY_ORIGIN=null;HW=null;HABIT_RETURN33=null;FLOW_HOW_RETURN=null;closeOv(true);if(origin.pick!=null){PICK=origin.pick;openOv('');drawStore();}else{var button=$('.evening-mini[data-v="'+origin.id+'"]');if(button)button.focus({preventScroll:true});}}
 
-/* Five extra facial expressions built from the established SVG character. */
+/* PS1.3.36: gà Shin (../core/shin.js) có sẵn các biểu cảm determined, focused, waiting, pout, welcome; ở đây chỉ gắn lớp chuyển động. */
 var eveningShin=shin;
-shin=function(mood){var config={determined:['proud','M42 49l12 3M66 52l12-3'],focused:['think','M41 51h13M66 51h13'],waiting:['worry','M41 48q6-3 12 1M66 49q6-4 12-1'],pout:['worry','M41 50l12 2M67 52l12-2'],welcome:['cheer','']},c=config[mood],svg=eveningShin(c?c[0]:mood);svg=svg.replace('<svg ','<svg class="evening-shin expression-'+(mood||'hi')+'" ');if(c&&c[1])svg=svg.replace('</g></svg>','<path d="'+c[1]+'" stroke="#3A2A1C" stroke-width="3" fill="none" stroke-linecap="round"/></g></svg>');if(mood==='focused')svg=svg.replace('</g></svg>','<path d="M35 85h50v25H35zM60 85v25" fill="#D9E5F7" stroke="#3A2A1C" stroke-width="2.4"/></g></svg>');if(mood==='pout')svg=svg.replace('</g></svg>','<path d="M54 74q6 4 12 0" fill="none" stroke="#3A2A1C" stroke-width="3" stroke-linecap="round"/><path d="M91 37h8m-4-4v8" stroke="#C37343" stroke-width="2.5"/></g></svg>');return svg;};
+shin=function(mood){var m=mood||'hi';return eveningShin(m).replace('<svg class="','<svg class="evening-shin expression-'+m+' ');};
 function eveningNudgeState(){var ids=handList().filter(function(id){return !isDip(id)&&H(id)&&H(id).status==='active';});if(!ids.length)return null;var dates=Object.keys(S.log||{}).filter(function(d){return d<=dk()&&ids.some(function(id){return !!mark(d,id);});}).sort(),last=dates[dates.length-1]||ids.map(function(id){return H(id).since;}).sort()[0];var gap=diffD(last,dk());return gap>3?{days:gap,level:gap>=14?'red':gap>=7?'orange':'yellow',mood:gap>=14?'determined':gap>=7?'pout':'waiting'}:null;}
 function eveningNudge(){var n=eveningNudgeState(),prefs=S.evening||{};if(n){if(prefs.nudgeDay===dk())return '';return '<aside class="evening-nudge '+n.level+'">'+shin(n.mood)+'<div><b>Shin đang đợi '+esc(S.name||'bạn')+'</b><p>Đã '+n.days+' ngày chưa có ghi nhận mới. '+(n.level==='yellow'?'Hôm nay mình thử lại một việc nhỏ nhé?':n.level==='orange'?'Shin hơi buồn rồi. Mình cùng nối lại nhịp bằng việc nhỏ nhất nhé.':'Shin muốn cùng bạn bắt đầu lại. Một việc vừa sức hôm nay là đủ.')+'</p></div><button class="m3-icon-button" data-act="eveningDismissNudge" aria-label="Đóng lời nhắc hôm nay">'+mi('close')+'</button></aside>';}
  if(prefs.returnDay===dk()&&Object.values(S.log[dk()]||{}).some(Boolean))return '<aside class="evening-nudge welcome">'+shin('welcome')+'<div><b>Shin vui vì bạn đã trở lại!</b><p>Một ghi nhận mới, một bước nối lại nhịp.</p></div></aside>';return '';}

diff --git a/routine/scripts/how-visual.js b/routine/scripts/how-visual.js
@@ -692,7 +692,7 @@ var HV={vandong:VD,ngu:NG,chitieu:CT,horenso:HR,anuong:AU,camxuc:CX,giup:GD,'5ph
 
 /* ---------- Ghép vào "Cách làm" ---------- */
 function stepsHTML(id,x,V){return '<div class="hw__k">Ba bước</div><div class="hwsteps hv-steps">'+x.steps.map(function(s,i){var art=V.steps&&V.steps[i]?V.steps[i]():'';return '<div class="hws hv-step">'+(art?'<figure class="hv-fig">'+art+'</figure>':'')+'<div class="hv-step-t"><i>'+(i+1)+'</i><div><b>'+esc(s[0])+'</b><span>'+esc(s[1])+'</span></div></div></div>';}).join('')+'</div>'+(x.ill?oldIll(x.ill[1]):'')+(V.key?V.key():'')+tipHTML(V);}
-function tipHTML(V){if(!V.tip)return '';return '<div class="hv-tip"><span class="hv-tip-shin" aria-hidden="true">'+shin(V.tip[0]).replace(/^\s*<svg /,'<svg class="hv-shin" ')+'</span><p><b>Shin mách nhỏ</b>'+esc(V.tip[1])+'</p></div>';}
+function tipHTML(V){if(!V.tip)return '';return '<div class="hv-tip"><span class="hv-tip-shin" aria-hidden="true">'+shin(V.tip[0]).replace('<svg class="','<svg class="hv-shin ')+'</span><p><b>Shin mách nhỏ</b>'+esc(V.tip[1])+'</p></div>';}
 function oldIll(n){return n&&ILL_CAP[n]!=null?'<figure class="ill">'+illSVG(n)+'<figcaption>'+esc(ILL_CAP[n]||'')+'</figcaption></figure>':'';}
 function whyHTML(x,V){var h='<div class="hw__k">Vì sao nên làm?</div><figure class="ill hv-duo">'+V.duo()+'</figure>'+(x.ill?oldIll(x.ill[0]):'');
  if(x.why)h+='<div class="hw__why"><small>VỚI BẠN</small>'+esc(x.why.now)+'</div><div class="hw__why"><small>Ở NHẬT</small>'+esc(x.why.jp)+'</div>';

diff --git a/routine/boot.js b/routine/boot.js
@@ -5,8 +5,8 @@ load(); save(); KPI_LAST=kpiValues();
 new MutationObserver(function(){animateKPIs();}).observe(document.body,{childList:true,subtree:true});
 if('scrollRestoration' in history) history.scrollRestoration='manual';
 render(); window.scrollTo(0,0); if(!DEMO)splashBoot();else document.documentElement.classList.remove('growth-starting');
-if(R2_NOTICE)setTimeout(r2Notice,DEMO||location.hash==='#checkin'?500:2600); /* v2: Shin báo thẻ đã lên bậc ở lần mở đầu */
-else setTimeout(r2Ask,DEMO?700:2800); /* v2 đợt 2: Shin hỏi khi mở app, 1 lần mỗi ngày */
+if(R2_NOTICE)setTimeout(r2Notice,DEMO||location.hash==='#checkin'?500:800); /* v2: Shin báo thẻ đã lên bậc ở lần mở đầu */
+else setTimeout(r2Ask,DEMO?700:900); /* v2 đợt 2: Shin hỏi khi mở app, 1 lần mỗi ngày */
 scheduleCheckin36();
 function hashCI(){ if(S.name && location.hash==='#checkin'){ try{ history.replaceState(null,'',location.pathname+location.search); }catch(e){} setTimeout(function(){ openCI(dk()); },350); } }
 hashCI(); window.addEventListener('hashchange',hashCI);
